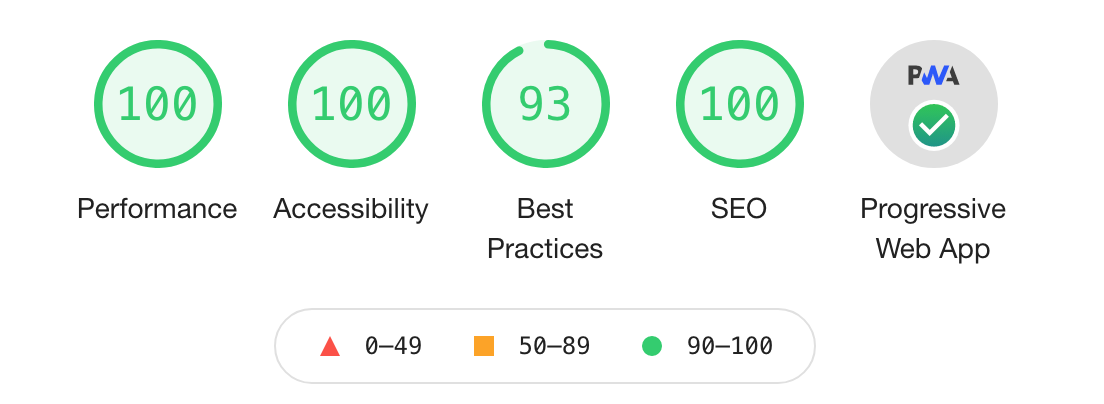
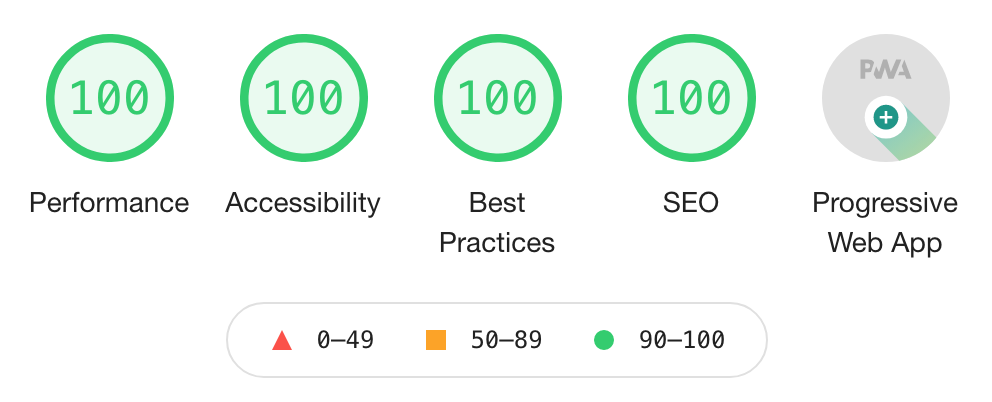
Readme: Lighthouse 100%

diff --git a/README.md b/README.md
@@ -53,11 +53,9 @@ performed against the demo installation on production. It uses an inexpensive vi
 
 ### Lighthouse site performance
 
-100% in nearly all categories.
+100% in all categories.
 
 ![Lighthouse](docs/lighthouse.png)
-
-Why not 100% in _Best practice_ category? This is a [bug in Lighthouse](https://github.com/GoogleChrome/lighthouse/issues/11862), because Lighthouse first injects inline styles and then whines about a CSP warning.
 
 ### Secure headers
 
